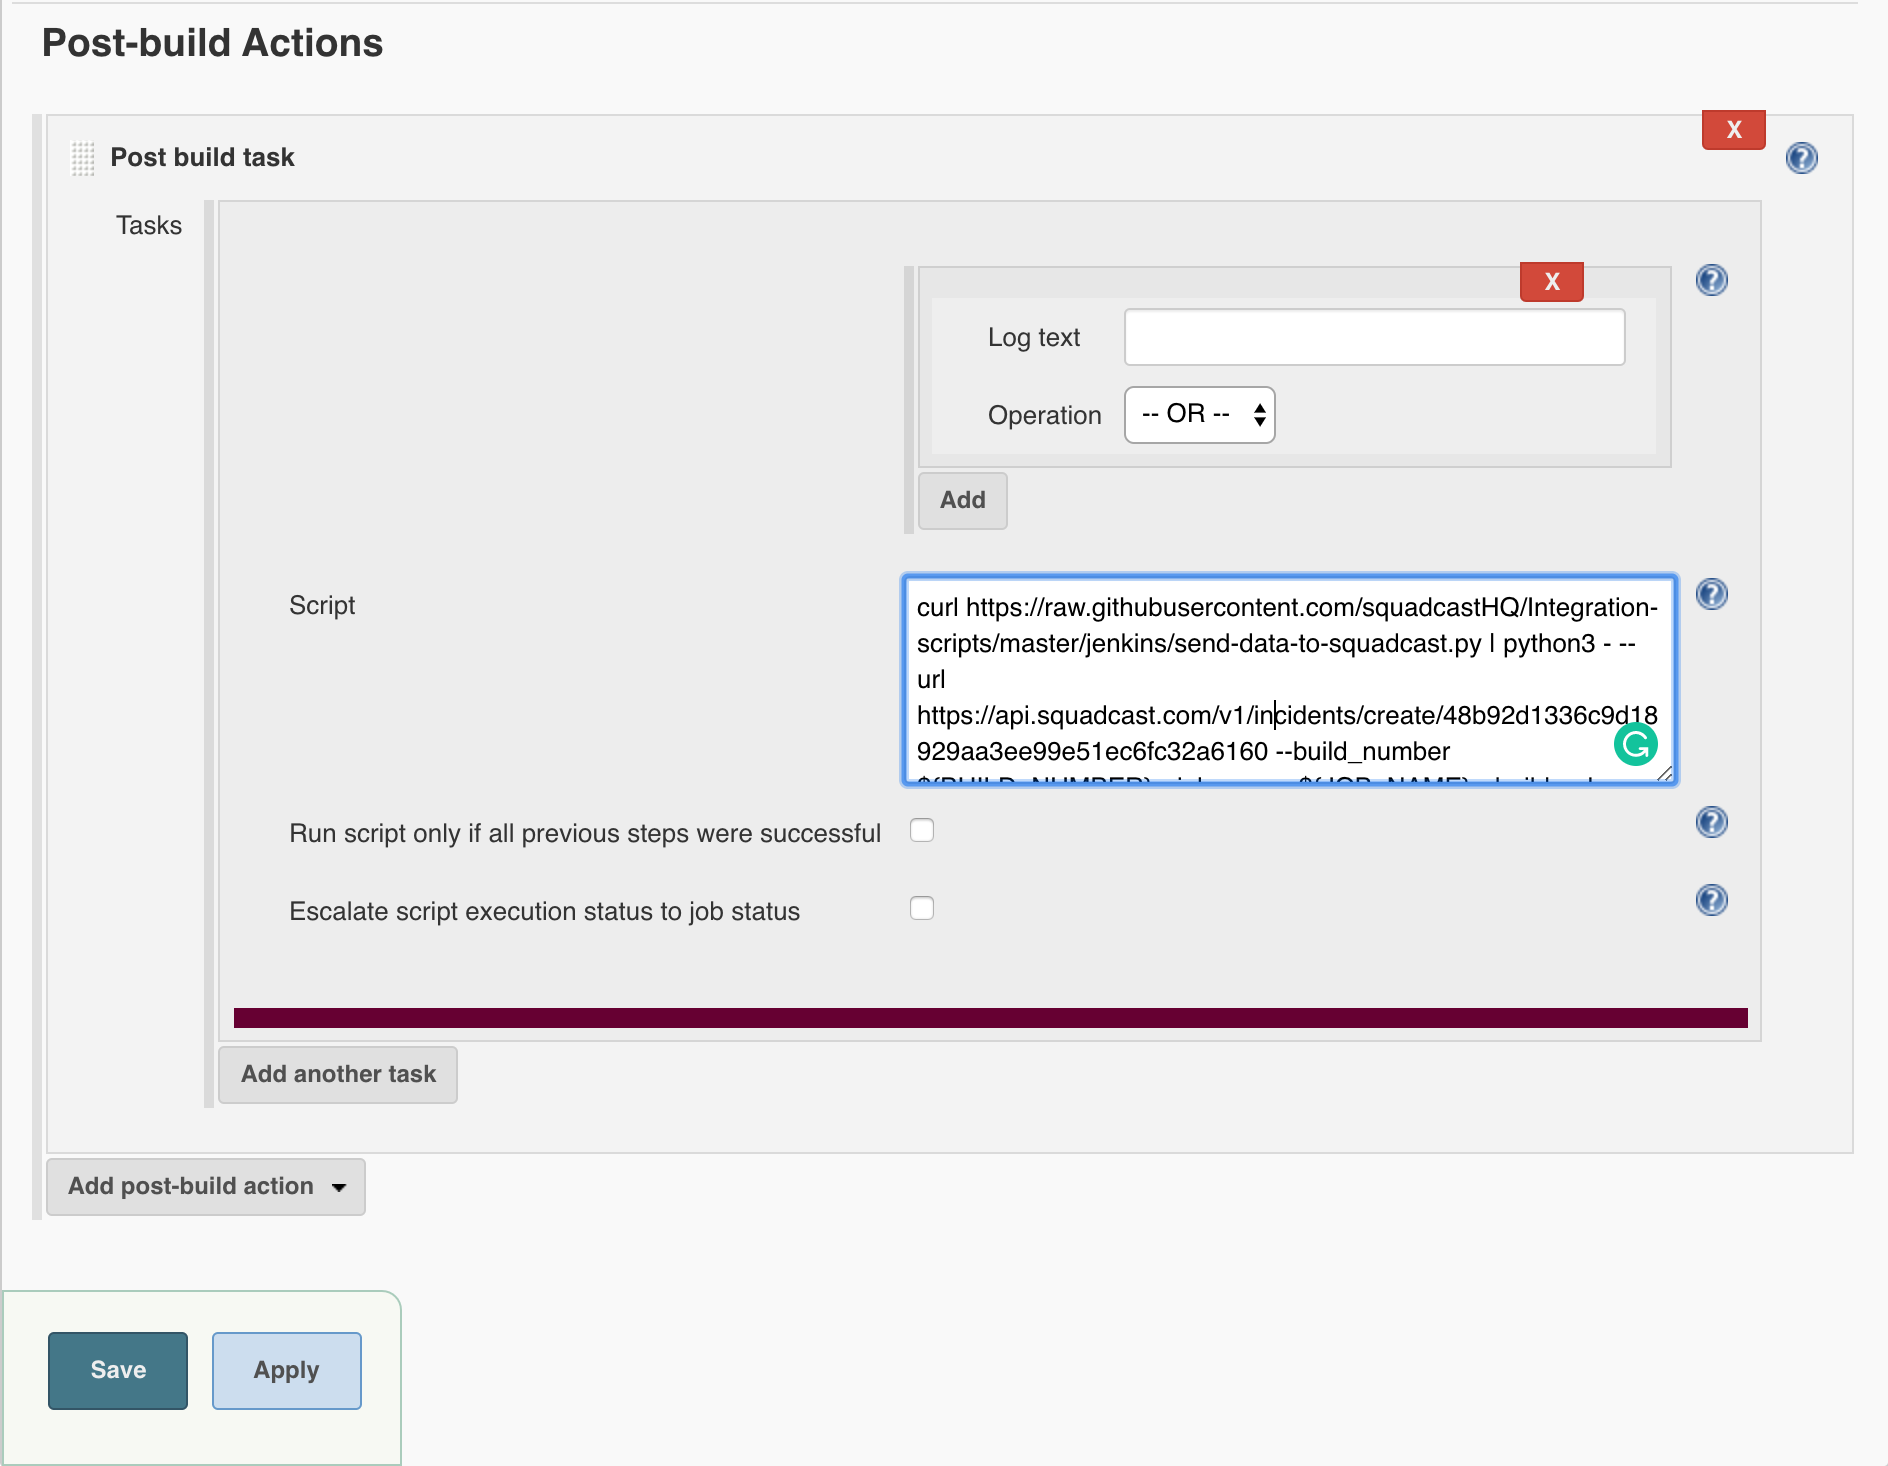
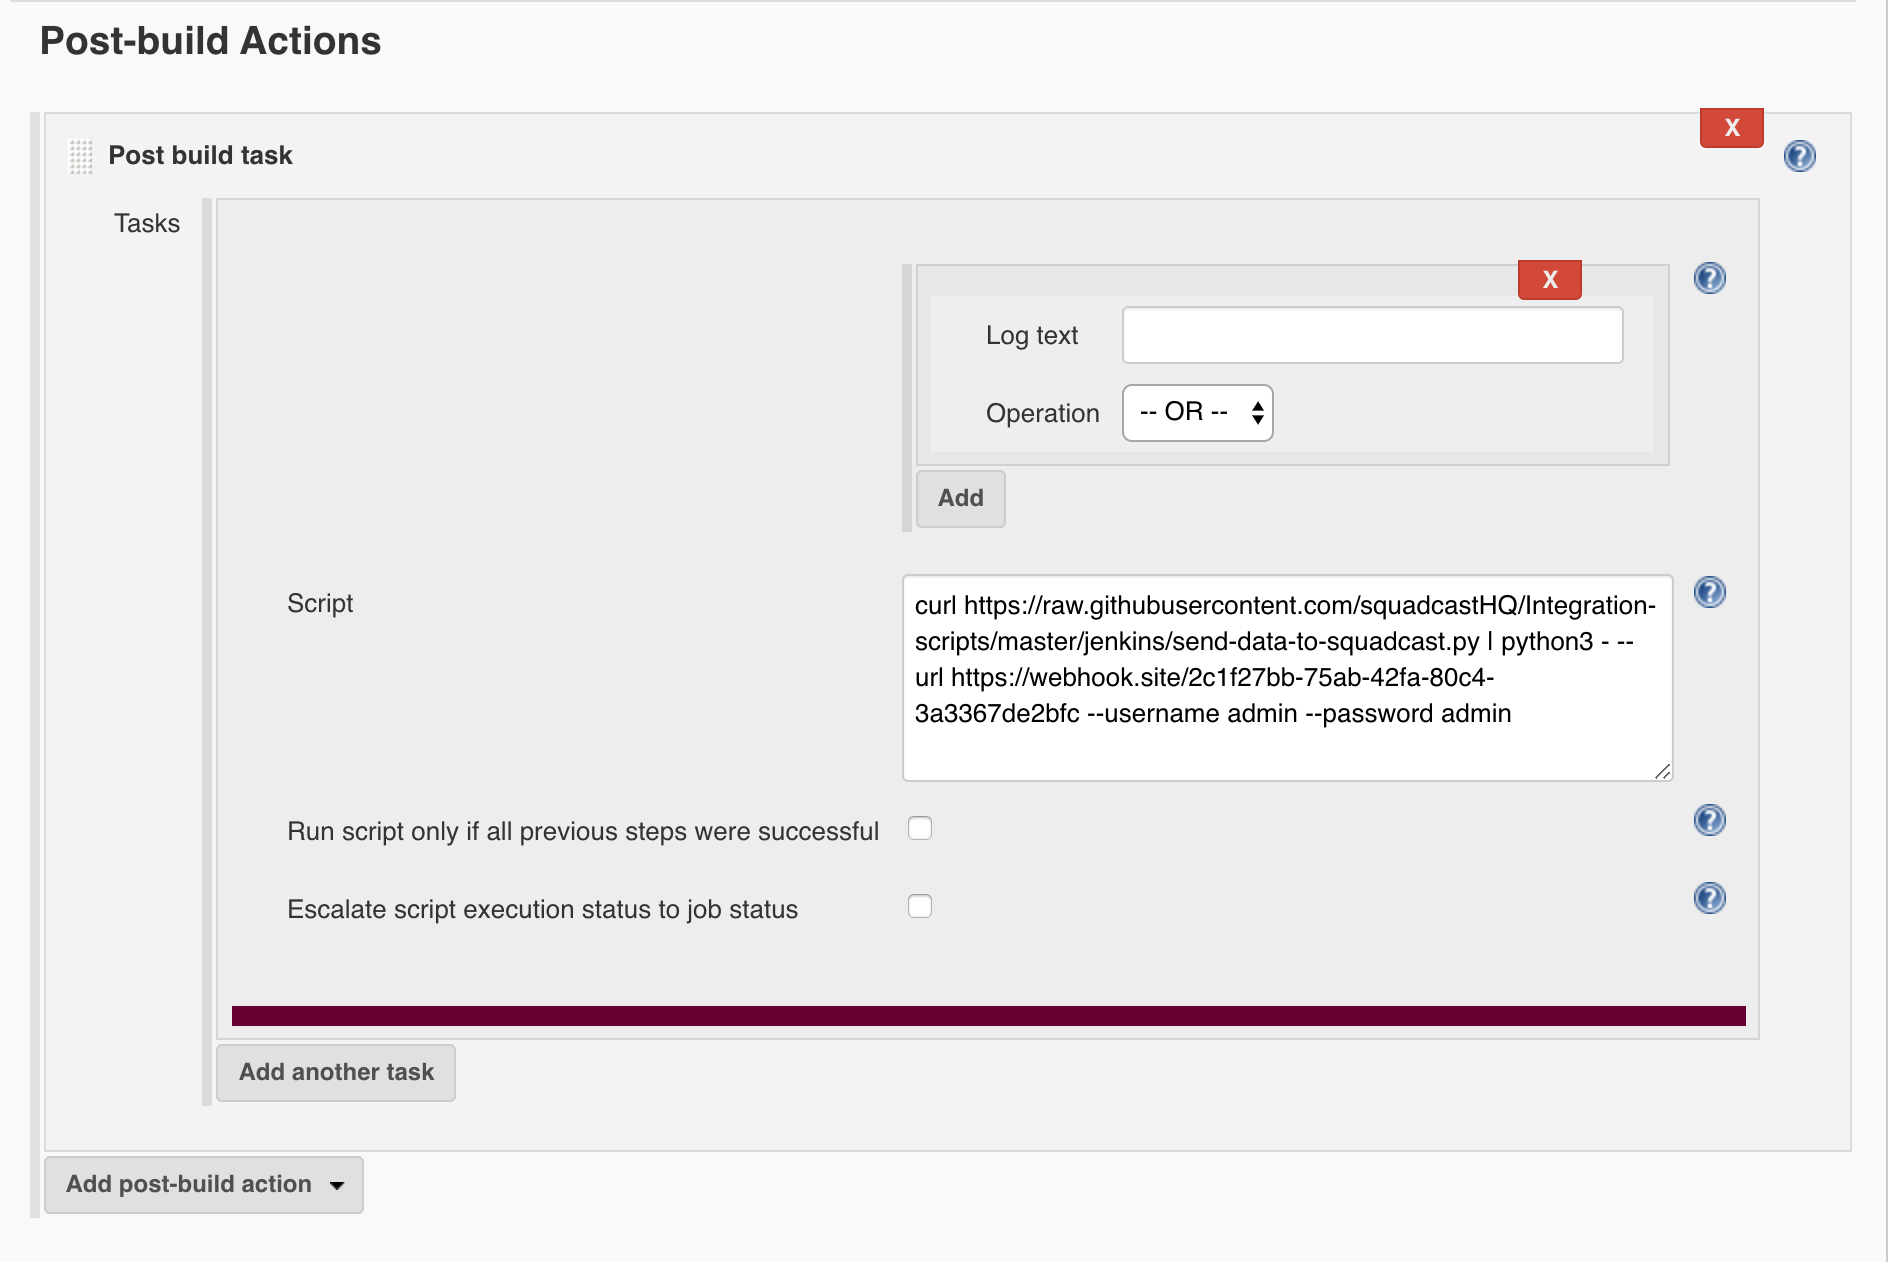
Updated readme.md

diff --git a/jenkins/Readme.md b/jenkins/Readme.md
@@ -5,7 +5,7 @@
 + Create an API endpoint in [Squadcast app](https://support.squadcast.com/docs/api)  
 + Add a `Post build task` and run the following command in `Script` text box
 ```sh
-curl https://raw.githubusercontent.com/squadcastHQ/Integration-scripts/master/jenkins/send-data-to-squadcast.py | python3 - --url https://api.squadcast.com/v1/incidents/create/48b92d1336c9d18929aa3ee99e51ec6fc32a6160 --build_number ${BUILD_NUMBER} --job_name ${JOB_NAME} --build_url ${BUILD_URL} --job_url ${JOB_URL} --username *yourusername* --password *typepassword*
+curl https://raw.githubusercontent.com/squadcastHQ/Integration-scripts/master/jenkins/send-data-to-squadcast.py | python3 - --url https://api.squadcast.com/v1/incidents/jenkins/c56a30a7a282321a53c5a94bb2085c24e721bc55 --username *yourusername* --password *enterpassword*
 ```
 ![Image](assets/jenkins_post_build_step.png)
 Please replace url(Squadcast API endpoint), username and password in the above command
